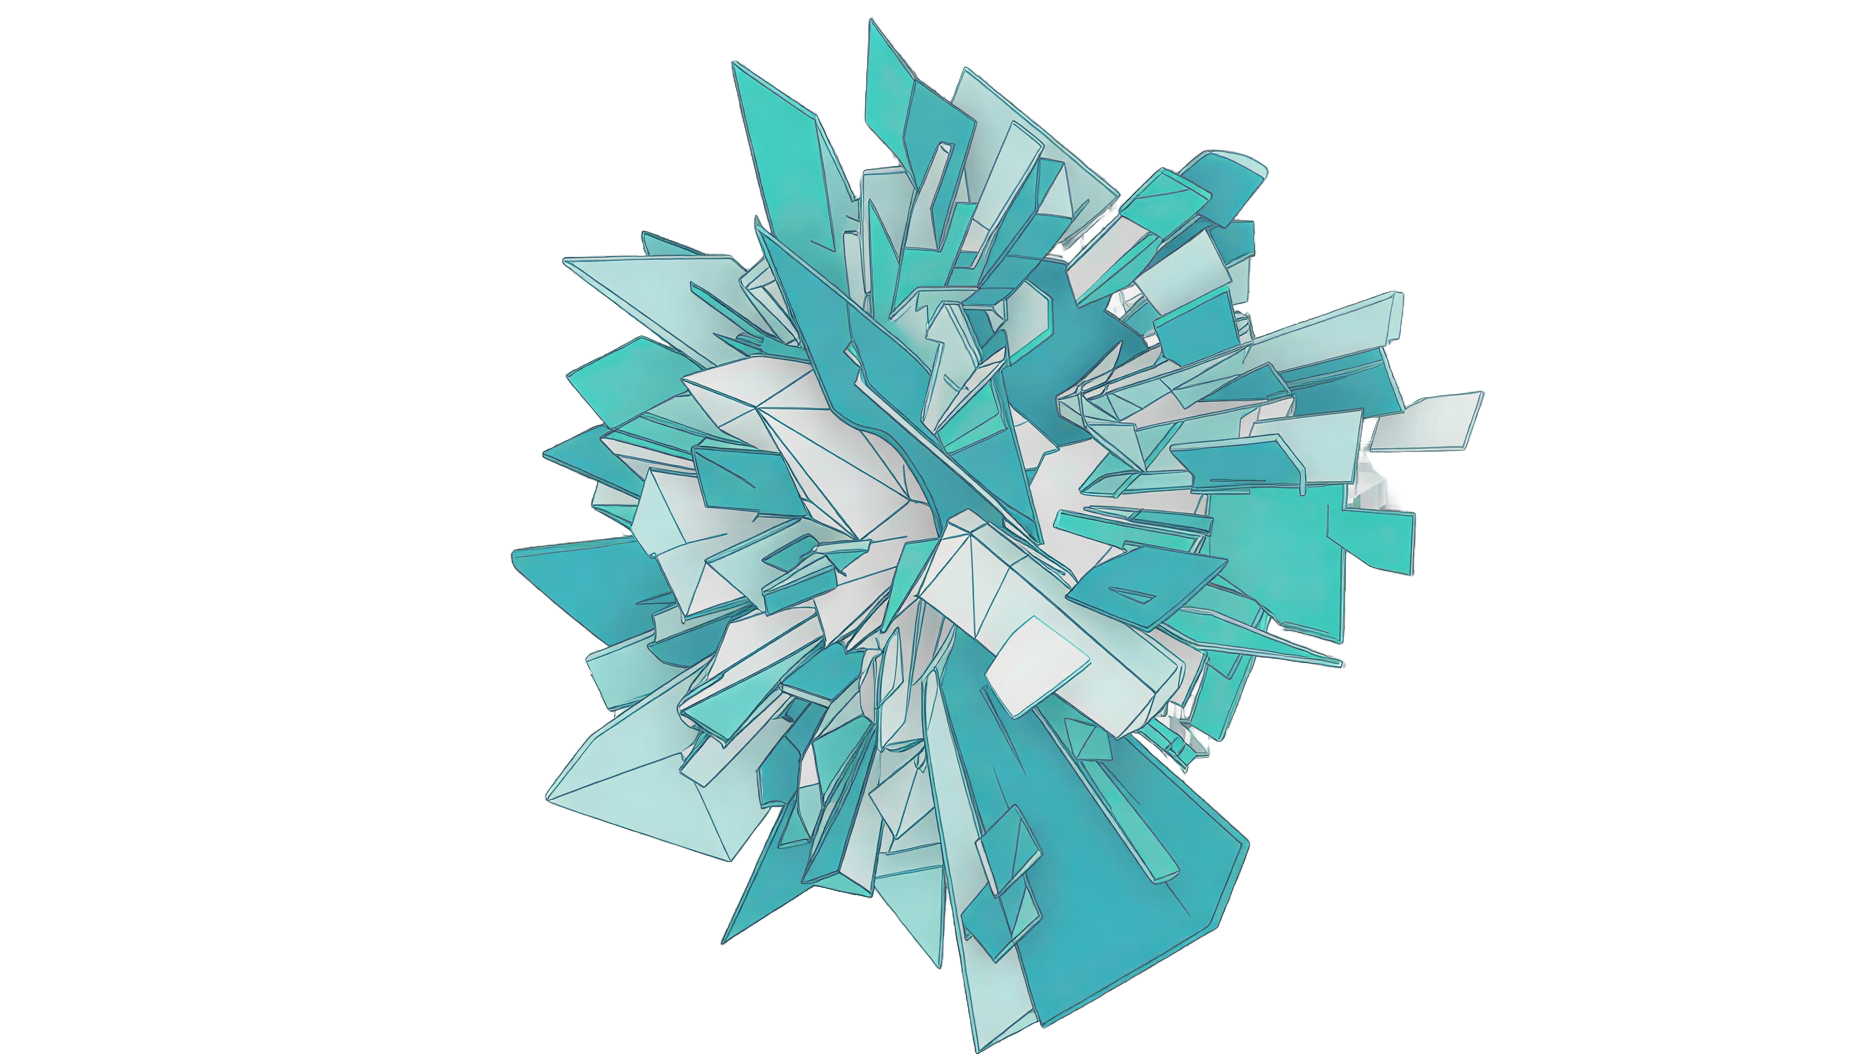
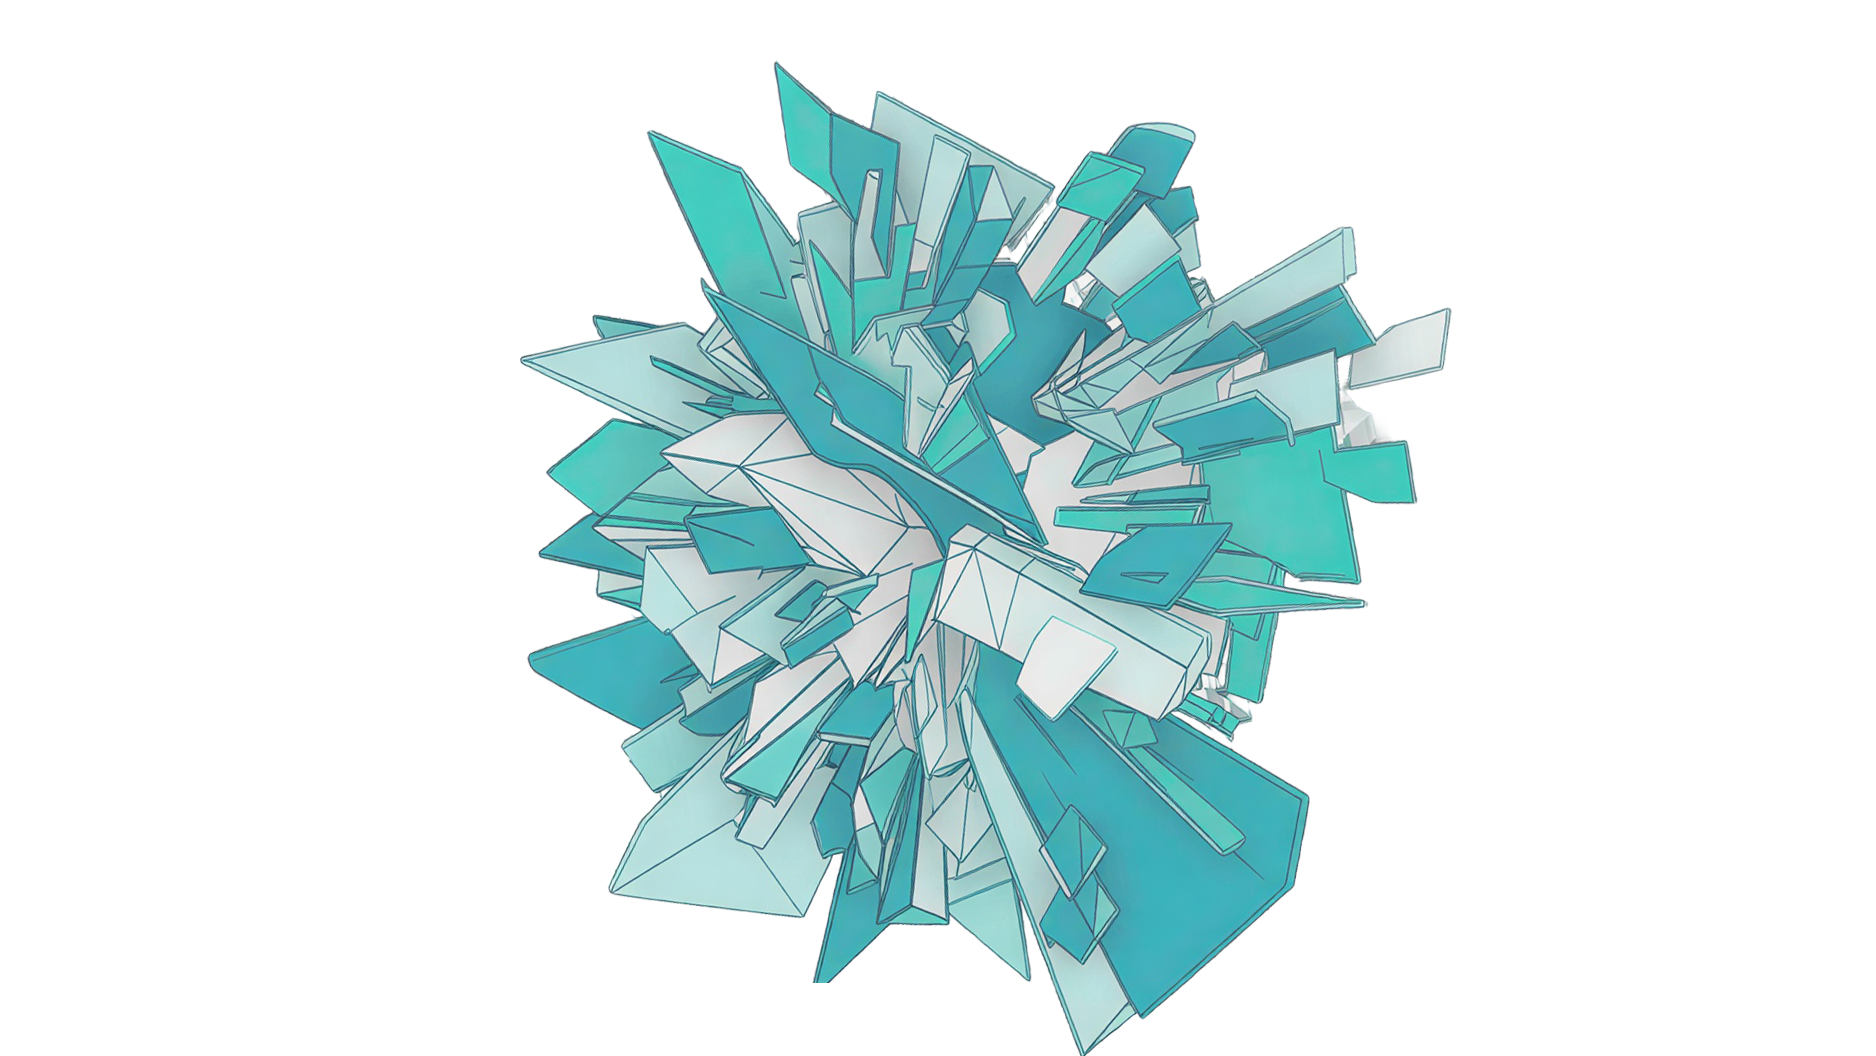
Fixes

Changed region(s): [[0.2783, 0.0312, 0.8038, 1.0]]

diff --git a/src/pages/About/components/AboutHero.jsx b/src/pages/About/components/AboutHero.jsx
@@ -9,8 +9,8 @@ export default function AboutHero() {
       <img
         src="/assets/images/wipeout2.png"
         alt="background"
-        className="about-bg-image absolute left-0 top-1/2 transform -translate-y-1/2 object-contain pointer-events-none z-10"
-        style={{ width: '1200px', height: '1300px', marginLeft: '-300px', opacity: 1 }}
+        className="about-bg-image absolute top-1/2 transform -translate-y-1/2 object-contain pointer-events-none z-10"
+        style={{ width: '1200px', height: '1300px', left: '-400px' }}
       />
       {/* Grid bg */}
       <div
